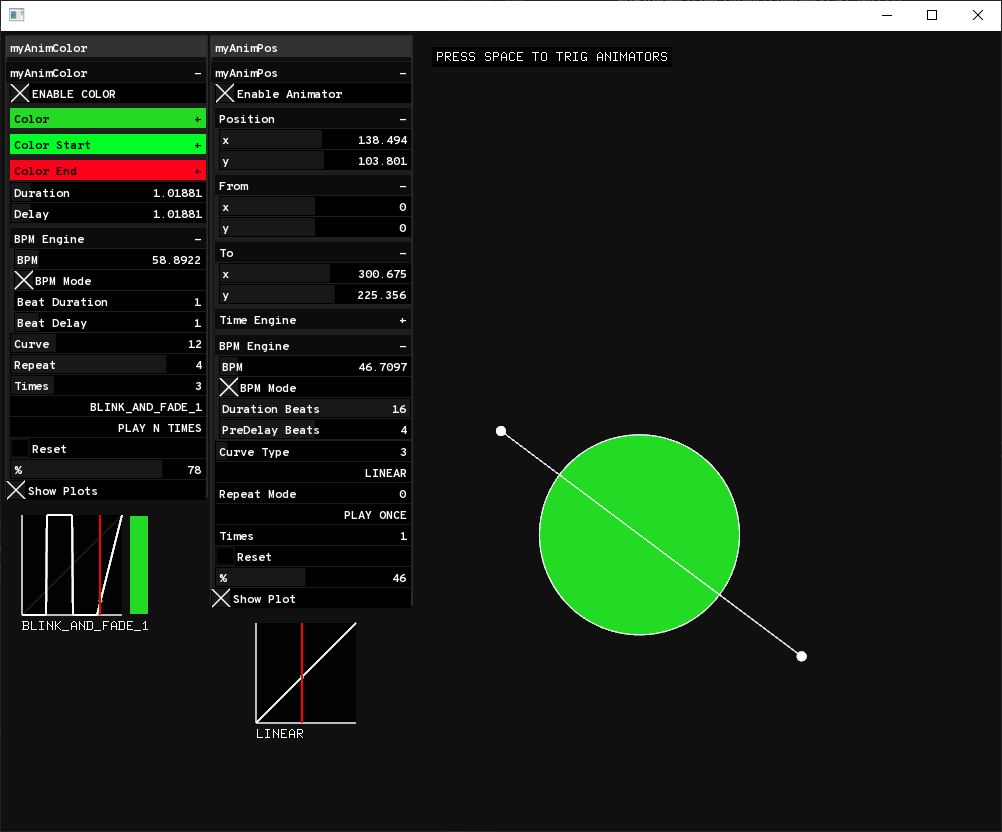
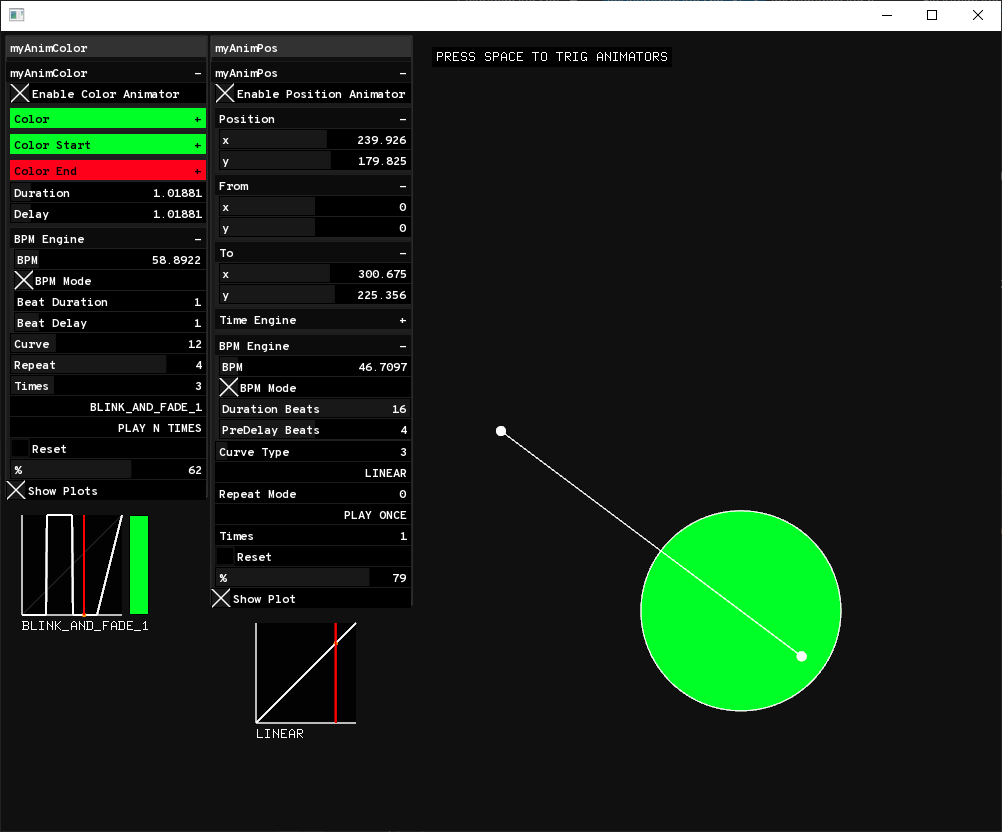
v.1.1

diff --git a/src/ColorAnimator.cpp b/src/ColorAnimator.cpp
@@ -39,7 +39,7 @@ void ColorAnimator::previousCurve()
 //--------------------------------------------------------------
 void ColorAnimator::setup()
 {
-	ENABLE_ColorAnims.set("ENABLE COLOR", true);
+	ENABLE_ColorAnims.set("Enable Color Animator", true);
 
 	colorCurrent.set("Color", ofColor(255, 255, 255, 255), ofColor(0, 0, 0, 0), ofColor(255, 255, 255, 255));
 	colorStart.set("Color Start", ofColor(255, 255, 255, 255), ofColor(0, 0, 0, 0), ofColor(255, 255, 255, 255));
@@ -275,16 +275,16 @@ void ColorAnimator::Changed_params(ofAbstractParameter &e)
 		colorAnim.setCurve(AnimCurve(curveType.get()));
 		curveName = colorAnim.getCurveName(AnimCurve(curveType.get()));
 	}
-	else if (name == "ENABLE COLOR")
+	else if (name == ENABLE_ColorAnims.getName())
 	{
 		if (!ENABLE_ColorAnims && colorAnim.isAnimating()) colorAnim.pause();
 		else if (ENABLE_ColorAnims && !colorAnim.isAnimating()) colorAnim.resume();
 	}
-	else if (name == "ENABLE COLOR")//TODO: ??
-	{
-		if (!ENABLE_ColorAnims) colorAnim.setColor(colorStart);
-		else colorAnim.setColor(colorStart);
-	}
+	//else if (name == ENABLE_ColorAnims.getName())//TODO: ??
+	//{
+	//	if (!ENABLE_ColorAnims) colorAnim.setColor(colorStart);
+	//	else colorAnim.setColor(colorStart);
+	//}
 	else if (name == "Duration")
 	{
 		colorAnim.setDuration(duration.get());

diff --git a/src/PositionAnimator.cpp b/src/PositionAnimator.cpp
@@ -59,7 +59,7 @@ void PositionAnimator::setup()
 {
 	//ofxSurfingHelpers::setThemeDark_ofxGui;
 
-	ENABLE_valueAnim.set("Enable Animator", true);
+	ENABLE_valueAnim.set("Enable Position Animator", true);
 
 	pos.set("Position", glm::vec2(0), glm::vec2(-1920, -1080), glm::vec2(1920, 1080));
 	posStart.set("From", glm::vec2(0), glm::vec2(-1920, -1080), glm::vec2(1920, 1080));
@@ -408,7 +408,7 @@ void PositionAnimator::Changed_params(ofAbstractParameter &e)
 
 	if (false) {}
 
-	else if (name == "Enable Animator")
+	else if (name == ENABLE_valueAnim.getName())
 	{
 		if (!ENABLE_valueAnim && animatorPosition.isAnimating()) animatorPosition.pause();
 		else if (ENABLE_valueAnim && !animatorPosition.isAnimating()) animatorPosition.resume();

diff --git a/README.md b/README.md
@@ -23,11 +23,11 @@ Some classes to faster integration into your OF Apps/Addons:
    * ColorAnimator.h
    * ToggleAnimator.h
 * Added GUI:  
-Setters for start/end, time duration and pre pause, curve types, loop modes, repeats...etc. 
+Setters for start/end, time mode, duration and pre pause, curve tween types, loop modes, repeats ...etc. 
 * Handle Settings: Auto store-recall.
 * Musical BPM based or absolute time scale.
 * Plotting realtime value curves.
-* Curve Tweens drawing preview.
+* Curve Tweens preview drawing.
 
 ## Dependencies
 * ofxAnimatable  
@@ -36,11 +36,14 @@ Setters for start/end, time duration and pre pause, curve types, loop modes, rep
 (https://github.com/moebiussurfing/ofxHistoryPlot)  
 * ofxSurfingHelpers  
 (https://github.com/moebiussurfing/ofxSurfingHelpers)  
-ofxGui  
+* ofxGui  
 
-* Bundled into ```OF_ADDON/libs```. (To Filter Noise point):  
-ofxBiquadFilter  
-ofxOneEuroFilter  
+* Bundled into ```OF_ADDON/libs```. No need to add to the ```Project Generator```! 
+(To Filter Noise point)  
+**ofxBiquadFilter**  
+(https://github.com/dzlonline/ofxBiquadFilter)
+**ofxOneEuroFilter**  
+(https://github.com/i-n-g-o/ofxOneEuroFilter)
 
 ## Usage
 - Look the examples.
